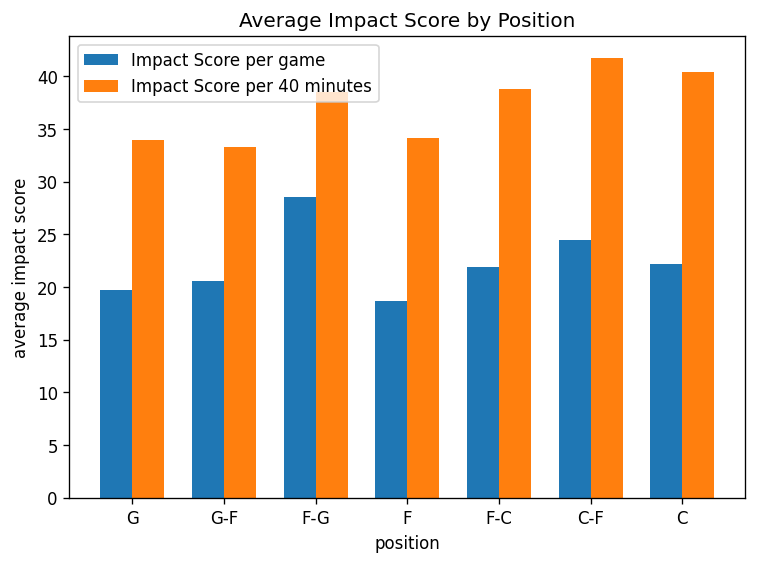
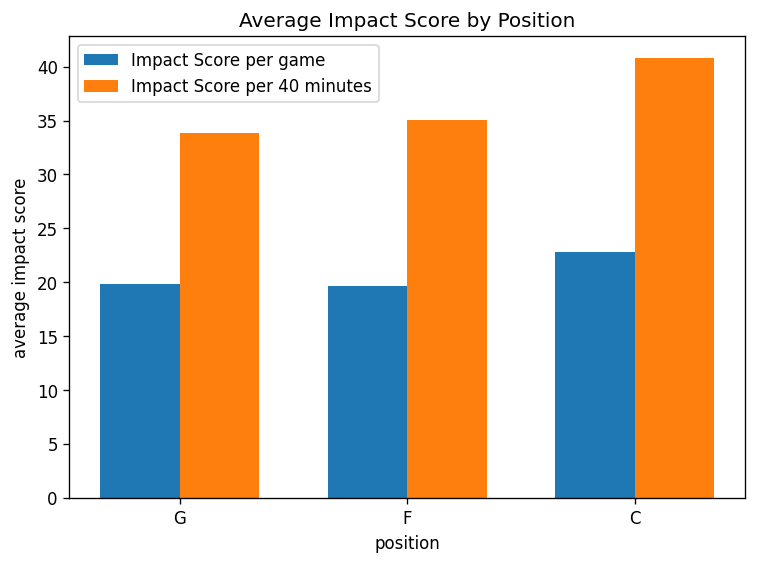
group positions into G, F and C only
The dataset spreads players over seven position labels, three of which
hold fewer than 25 of the 419 eligible players and F-G only 9, too few
for a stable average. Hybrid labels are now collapsed onto the primary
position during data preparation, so every table works on three groups.

This removes the F-G anomaly: centres lead both versions of the
indicator (22.81 per game, 40.78 per 40 minutes), while guards and
forwards are 0.21 apart and swap order once normalised.

Position chart regenerated, README and REPORT updated.

diff --git a/nba_analysis.py b/nba_analysis.py
@@ -42,6 +42,9 @@ def build_season_totals(season_stats):
 def calculate_per_game_averages(season_stats):
     per_game = season_stats.copy()
 
+    #hybrid labels collapsed onto the primary position: G-F -> G, F-G and F-C -> F, C-F -> C
+    per_game['position'] = per_game['position'].str[0]
+
     per_game['PTS'] = (per_game['one_point_made']
                        + per_game['two_point_made'] * 2
                        + per_game['three_point_made'] * 3)
@@ -400,7 +403,7 @@ def build_conclusions_table(ranking_40, ranking_game, age_group_table_40, age_gr
     return conclusions
 
 def plot_position_comparison(scores_game, scores_40):
-    position_order = ['G', 'G-F', 'F-G', 'F', 'F-C', 'C-F', 'C']
+    position_order = ['G', 'F', 'C']
 
     scores_game = scores_game.reindex(position_order)
     scores_40 = scores_40.reindex(position_order)

diff --git a/REPORT.md b/REPORT.md
@@ -22,7 +22,7 @@ Main findings:
 2. **The two rankings agree on 8 of 10 names.** The indicator is therefore robust: normalising by playing time reshuffles the order but does not change who the best players are.
 3. **Minutes played explain most of the per-game score, and little of the per-40 score.** The Pearson correlation drops from **0.76** to **0.39** — from about 58% of the variance explained to about 15%.
 4. **Impact rises with age, but this is a selection effect.** The 35+ band has the highest average in both versions (26.03 and 39.09), yet it contains only 20 of the 419 eligible players.
-5. **The position with the highest impact changes with the metric**: `F-G` per game (28.54), `C-F` per 40 minutes (41.72). Normalisation shifts the advantage towards the interior positions, consistently with the weight the formula assigns to rebounds and blocks.
+5. **Centres have the highest impact on both metrics** (22.81 per game, 40.78 per 40 minutes). Their margin over the guards widens from about 15% to about 21% once playing time is normalised — a direct consequence of the weight the formula assigns to rebounds and blocks.
 
 ---
 
@@ -77,14 +77,14 @@ On this dataset the threshold works out at **27.3 games** (1/3 of 82), which kee
 | # | Player | Age | Pos | Team | Impact Score |
 |---|---|---|---|---|---|
 | 1 | Nikola Jokić | 31 | C | DEN | **59.93** |
-| 2 | Luka Dončić | 27 | F-G | LAL | 55.54 |
-| 3 | Victor Wembanyama | 22 | F-C | SAS | 49.26 |
+| 2 | Luka Dončić | 27 | F | LAL | 55.54 |
+| 3 | Victor Wembanyama | 22 | F | SAS | 49.26 |
 | 4 | Shai Gilgeous-Alexander | 27 | G | OKC | 48.26 |
 | 5 | Giannis Antetokounmpo | 31 | F | MIL | 47.51 |
 | 6 | Jalen Johnson | 24 | F | ATL | 46.59 |
 | 7 | Cade Cunningham | 24 | G | DET | 46.32 |
 | 8 | Tyrese Maxey | 25 | G | PHI | 46.00 |
-| 9 | Jaylen Brown | 29 | G-F | BOS | 43.84 |
+| 9 | Jaylen Brown | 29 | G | BOS | 43.84 |
 | 10 | Kawhi Leonard | 35 | F | LAC | 43.46 |
 
 **Top 10 average Impact Score: 48.67 — average age: 27.5 years.**
@@ -100,13 +100,13 @@ The distribution is markedly top-heavy: Jokić stands 4.4 points clear of Donči
 | # | Player | Age | Pos | Team | Impact Score |
 |---|---|---|---|---|---|
 | 1 | Nikola Jokić | 31 | C | DEN | **68.81** |
-| 2 | Victor Wembanyama | 22 | F-C | SAS | 67.60 |
+| 2 | Victor Wembanyama | 22 | F | SAS | 67.60 |
 | 3 | Giannis Antetokounmpo | 31 | F | MIL | 65.82 |
-| 4 | Luka Dončić | 27 | F-G | LAL | 62.12 |
+| 4 | Luka Dončić | 27 | F | LAL | 62.12 |
 | 5 | Shai Gilgeous-Alexander | 27 | G | OKC | 58.11 |
 | 6 | Cade Cunningham | 24 | G | DET | 54.60 |
 | 7 | Kawhi Leonard | 35 | F | LAC | 54.21 |
-| 8 | Joel Embiid | 32 | C-F | PHI | 54.05 |
+| 8 | Joel Embiid | 32 | C | PHI | 54.05 |
 | 9 | Jalen Johnson | 24 | F | ATL | 53.00 |
 | 10 | LaMelo Ball | 24 | G | CHA | 52.35 |
 
@@ -138,14 +138,14 @@ Per-game averages of the ten highest per-game scores:
 | Player | Pos | PTS | REB | AST | STL | BLK | TOV | MIN |
 |---|---|---|---|---|---|---|---|---|
 | Nikola Jokić | C | 27.68 | **12.86** | **10.72** | 1.42 | 0.82 | 3.74 | 34.84 |
-| Luka Dončić | F-G | **33.48** | 7.73 | 8.28 | 1.64 | 0.53 | **3.98** | 35.76 |
-| Victor Wembanyama | F-C | 25.00 | 11.50 | 3.11 | 1.03 | **3.08** | 2.42 | 29.15 |
+| Luka Dončić | F | **33.48** | 7.73 | 8.28 | 1.64 | 0.53 | **3.98** | 35.76 |
+| Victor Wembanyama | F | 25.00 | 11.50 | 3.11 | 1.03 | **3.08** | 2.42 | 29.15 |
 | Shai Gilgeous-Alexander | G | 31.13 | 4.29 | 6.59 | 1.40 | 0.76 | 2.22 | 33.22 |
 | Giannis Antetokounmpo | F | 27.58 | 9.78 | 5.44 | 0.94 | 0.67 | 3.19 | 28.87 |
 | Jalen Johnson | F | 22.51 | 10.28 | 7.86 | 1.24 | 0.43 | 3.39 | 35.16 |
 | Cade Cunningham | G | 23.92 | 5.55 | 9.91 | 1.44 | 0.84 | 3.69 | 33.93 |
 | Tyrese Maxey | G | 28.29 | 4.14 | 6.59 | 1.86 | 0.79 | 2.44 | **38.02** |
-| Jaylen Brown | G-F | 28.70 | 6.93 | 5.13 | 1.01 | 0.38 | 3.65 | 34.41 |
+| Jaylen Brown | G | 28.70 | 6.93 | 5.13 | 1.01 | 0.38 | 3.65 | 34.41 |
 | Kawhi Leonard | F | 27.89 | 6.35 | 3.60 | **1.88** | 0.42 | 2.05 | 32.07 |
 
 Three routes to a high score emerge:
@@ -207,28 +207,23 @@ K-Means with 3 clusters on standardised minutes played and Impact Score. Standar
 
 ### 4.8 Impact by position
 
+The dataset labels players with seven positions, including hybrids such as `G-F` or `C-F`. Three of those groups hold fewer than 25 of the 419 eligible players and `F-G` holds only 9 — too few for an average to mean anything. Positions are therefore **collapsed onto the primary one**, the first label listed: `G-F` → `G`, `F-G` and `F-C` → `F`, `C-F` → `C`. The collapse is applied during data preparation, so every table in this report uses the three-way label.
+
 | Position | Players | Avg minutes | Impact per game | Impact per 40 min |
 |---|---|---|---|---|
-| `G` | 170 | 22.31 | 19.74 | 33.96 |
-| `G-F` | 34 | 23.84 | 20.61 | 33.27 |
-| `F-G` | 9 | **28.93** | **28.54** | 38.49 |
-| `F` | 124 | 20.98 | 18.63 | 34.18 |
-| `F-C` | 22 | 21.69 | 21.87 | 38.84 |
-| `C-F` | 16 | 22.90 | 24.45 | **41.72** |
-| `C` | 44 | 21.16 | 22.21 | 40.44 |
+| `G` | 204 | 22.57 | 19.88 | 33.84 |
+| `F` | 155 | 21.54 | 19.67 | 35.09 |
+| `C` | 60 | 21.62 | **22.81** | **40.78** |
 
 ![Average Impact Score by position](charts/07-impact-score-by-position.png)
 
 *Figure 7 — Average Impact Score by position, per game (blue) and per 40 minutes (orange). Positions are ordered along the guard → centre continuum.*
 
-**How to read it.** The two series tell different stories. On the per-game series the peak is the `F-G` group, an isolated spike in the middle of the chart. On the per-40 series the pattern is monotone: it rises from left to right, from the guards to the interior positions, peaking at `C-F` and `C`.
+**How to read it.** Both series peak at the centres, and the orange series peaks harder. The effect is specific to the comparison with the guards: the centres' margin over `G` goes from 14.7% per game to 20.5% per 40 minutes, while their margin over `F` barely moves (16.0% to 16.2%). Centres average slightly fewer minutes than guards (21.62 against 22.57) and about the same as forwards, so removing playing time from the measure only works in their favour against the group that plays more.
 
-The `F-G` spike deserves scrutiny, because it is the one result that does not survive normalisation. Two facts explain it:
+This is the expected result given the formula: rebounds are weighted 1.2 and blocks 2, and both are categories where centres accumulate most. Wembanyama's 3.08 blocks per game, worth 6.16 points of Impact Score on their own, are the individual illustration of a positional effect.
 
-- The group has only **9 players**, so it is highly sensitive to individual cases — Dončić alone scores 55.54. Removing him, however, still leaves the group at 25.16, ahead of every other position, so this is not a single-player artefact.
-- The group averages **28.93 minutes**, roughly 5 to 8 more than every other position group. `F-G` is not a playing style so much as a label that in this dataset attaches to high-usage wings.
-
-Per 40 minutes, with that advantage removed, `F-G` drops to fourth (38.49) and the ranking becomes coherent: the interior positions lead, which follows directly from the formula, where rebounds are weighted 1.2 and blocks 2 — the two categories where centres accumulate most.
+Guards and forwards are, for practical purposes, indistinguishable: 0.21 apart per game, and they swap order once normalised (33.84 against 35.09). The reason is the same one that runs through the whole analysis — guards average about one minute more per game, which is enough to put them marginally ahead on a volume measure and marginally behind on a rate measure. **The only robust positional conclusion is the advantage of the interior.**
 
 ---
 
@@ -241,13 +236,13 @@ Per 40 minutes, with that advantage removed, `F-G` drops to fourth (38.49) and t
 | Top 10 average age | 27.5 | 27.7 |
 | Age band with the highest impact | 35+ (26.03) | 35+ (39.09) |
 | Correlation with minutes played | 0.76 | 0.39 |
-| Position with the highest impact | F-G (28.54) | C-F (41.72) |
+| Position with the highest impact | C (22.81) | C (40.78) |
 
 1. **Jokić is the most impactful player of the season on this metric, on both readings.** Leading a volume-based indicator and an efficiency-based one at the same time is the strongest result the analysis produces: his advantage does not depend on how long he is on the court.
 2. **The indicator is stable where it matters.** Eight of the ten names are common to both rankings; normalisation reorders the top but does not replace it.
 3. **Playing time is the main confounder of any per-game measure**, and quantifiably so: it accounts for roughly 58% of the variance of the per-game score against 15% of the per-40 score. Any ranking based on per-game totals is in large part a ranking of who the coach trusts.
 4. **The age result is a trap worth naming.** The 35+ band leads both averages, but on 20 players who are on rosters precisely because they are still good. Peak individual performance, read from the maxima, sits in the 27–34 range.
-5. **Positional conclusions depend entirely on the metric chosen.** The same dataset says `F-G` or `C-F` depending on whether playing time is normalised — which is the clearest demonstration that the two versions of the indicator answer two different questions, and that reporting only one of them would be misleading.
+5. **Centres have the highest impact, and it is the one positional result that holds on both metrics.** Guards and forwards are 0.21 apart per game and change order when normalised, so no meaningful difference separates them. The centres' advantage, by contrast, is present in both versions and widens under normalisation — although it should be read as a property of the formula's weights as much as of the players: an indicator that rewards rebounds and blocks will favour the positions that produce them.
 
 ---
 

diff --git a/README.md b/README.md
@@ -86,7 +86,8 @@ Handling of missing values, removal of any duplicates, conversion of the variabl
 
 Choices made:
 - missing values in `wins` / `losses` treated as 0 games played;
-- players with 0 games played excluded from the averages (`NaN` instead of a division by zero).
+- players with 0 games played excluded from the averages (`NaN` instead of a division by zero);
+- hybrid position labels collapsed onto the primary position (`G-F` → `G`, `F-G` and `F-C` → `F`, `C-F` → `C`), so that every table downstream works on three groups instead of seven.
 
 ### 3. Impact Score computation
 Application of the predefined formula, accounting for the different weights assigned to the player statistics. The games played filter is applied before the computation. The result is stored in the two new variables `impact_score_game` and `impact_score_40`.
@@ -117,21 +118,19 @@ The Top 10 players are compared on the main individual statistics (`PTS`, `REB`,
 Tables and charts are built on the dataset **filtered** in phase 3, so the rankings match those of phase 4. The two tables are independent of each other: each works on its own copy of the filtered dataset.
 
 ### 8. Impact Score by position
-Average Impact Score grouped by position (`position`), computed on both versions of the indicator, with a **grouped bar chart** comparing the two averages position by position (positions ordered along the guard → centre continuum: `G`, `G-F`, `F-G`, `F`, `F-C`, `C-F`, `C`).
+Average Impact Score grouped by position, computed on both versions of the indicator, with a **grouped bar chart** comparing the two averages position by position.
+
+Hybrid labels are collapsed onto the primary position (`G-F` → `G`, `F-G` and `F-C` → `F`, `C-F` → `C`). The dataset spreads players over seven labels, three of which hold fewer than 25 of the 419 eligible players — too few for a stable average, and `F-G` held just 9. The three resulting groups hold 204 guards, 155 forwards and 60 centres.
 
 Results:
 
-| Position | Impact Score per game | Impact Score per 40 minutes |
-|---|---|---|
-| `G` | 19.74 | 33.96 |
-| `G-F` | 20.61 | 33.27 |
-| `F-G` | **28.54** | 38.49 |
-| `F` | 18.63 | 34.18 |
-| `F-C` | 21.87 | 38.84 |
-| `C-F` | 24.45 | **41.72** |
-| `C` | 22.21 | 40.44 |
+| Position | Players | Impact Score per game | Impact Score per 40 minutes |
+|---|---|---|---|
+| `G` | 204 | 19.88 | 33.84 |
+| `F` | 155 | 19.67 | 35.09 |
+| `C` | 60 | **22.81** | **40.78** |
 
-Comparing the two columns changes the reading: per game the highest value belongs to the `F-G` group, but it is a small group pulled up by the heavy minutes of its best players; once normalised per 40 minutes the impact shifts steadily towards the interior positions (`C-F`, `C`, `F-C`), consistently with the weight the formula gives to rebounds and blocks.
+Centres lead on both versions. Their margin over the guards widens once playing time is normalised, from about 15% to about 21%, while the margin over the forwards stays around 16%. This follows from the formula, where rebounds are weighted 1.2 and blocks 2 — the two categories where centres accumulate most. Guards and forwards are almost tied per game (19.88 against 19.67) but swap order once normalised (33.84 against 35.09), because guards average about one minute more per game.
 
 ### 9. Conclusions
 The results of the previous phases come together in a **summary table** that puts the two versions of the indicator side by side, one question of the analysis per row:
@@ -143,7 +142,7 @@ The results of the previous phases come together in a **summary table** that put
 | Top 10 average age | 27.5 | 27.7 |
 | Age band with the highest impact | 35+ (26.03) | 35+ (39.09) |
 | Correlation with minutes played | 0.76 | 0.39 |
-| Position with the highest impact | F-G (28.54) | C-F (41.72) |
+| Position with the highest impact | C (22.81) | C (40.78) |
 
 What comes out of it:
 
@@ -152,7 +151,7 @@ What comes out of it:
 - **The average age of the best players is the same in both versions**, just above 27: the performance peak does not move depending on how impact is measured.
 - **The 35+ band has the highest average in both versions, but this is a selection effect.** It is 20 players out of 419: at that age only those who are still very strong stay on the court, while the younger bands also contain every bench player.
 - **The correlation with minutes drops from 0.76 to 0.39.** Per-game production is largely explained by the minutes granted; normalising removes most of that, and what remains suggests coaches do give more room to the more efficient players.
-- **The position with the highest impact changes with the metric.** Per game the `F-G` group stands out, per 40 minutes the interior positions (`C-F`, `C`, `F-C`) do: the clearest confirmation that the two versions of the indicator answer different questions.
+- **Centres have the highest impact on both versions, and normalising widens their lead.** Guards and forwards are separated by 0.21 per game and change order once normalised, so the only stable positional result is the advantage of the interior — which comes straight from the weights the formula puts on rebounds and blocks.
 
 ---
 
@@ -190,7 +189,7 @@ nba_analysis_exercise/
 |---|---|
 | `explore_dataset(raw_data)` | Initial exploration: `head`, data types |
 | `build_season_totals(season_stats)` | View of the season totals with `games_played`, `PTS`, `REB` |
-| `calculate_per_game_averages(season_stats)` | Per-game averages of every statistic |
+| `calculate_per_game_averages(season_stats)` | Per-game averages of every statistic, and the collapse of the hybrid position labels |
 | `filter_by_games_played(per_game_stats)` | Keeps the players with at least 1/3 of the games of the most used one |
 | `calculate_impact_score_40(qualified_players)` | Formula normalised per 40 minutes (`impact_score_40`), sorted descending |
 | `calculate_impact_score_game(qualified_players)` | Formula on the per-game averages (`impact_score_game`), sorted descending |
@@ -204,7 +203,7 @@ nba_analysis_exercise/
 | `build_top10_comparison_game` / `..._40` | Comparison table of the Top 10 with the per-game averages |
 | `plot_top10_bar_chart_40` / `..._game` | Bar chart of the Top 10 for each version of the indicator |
 | `calculate_score_by_position_game` / `..._40` | Average Impact Score by position, sorted descending |
-| `plot_position_comparison(scores_game, scores_40)` | Grouped bar chart of the two averages by position, positions ordered from `G` to `C` |
+| `plot_position_comparison(scores_game, scores_40)` | Grouped bar chart of the two averages by position, ordered `G`, `F`, `C` |
 | `build_conclusions_table(...)` | Final summary table: the six answers of the analysis, per game and per 40 minutes |
 
 Naming convention: functions start with a verb (`calculate_`, `build_`, `plot_`, `filter_`, `explore_`), variables are nouns. Functions that exist in two versions carry the `_game` or `_40` suffix. The DataFrames that flow through the analysis are named `season_stats` (season totals) → `per_game_stats` (per-game averages) → `qualified_players` (after the filter) → `ranking_game` / `ranking_40` (with the Impact Score computed and sorted).
